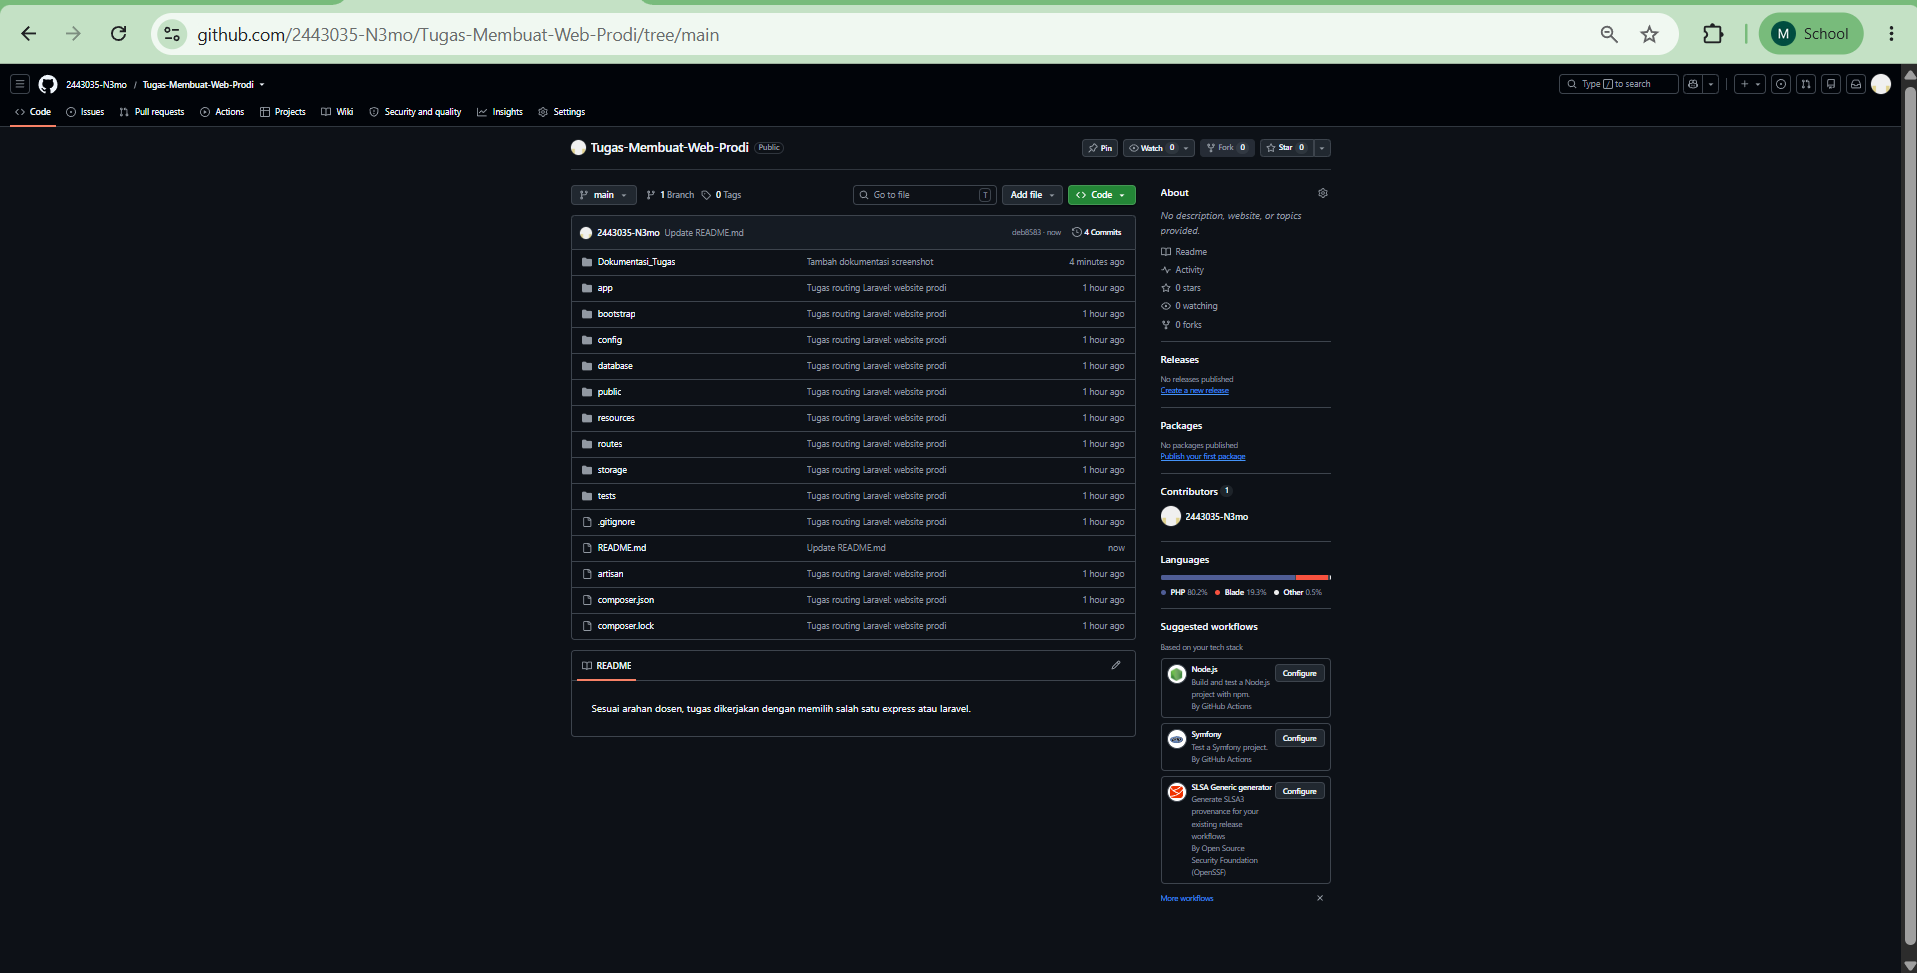
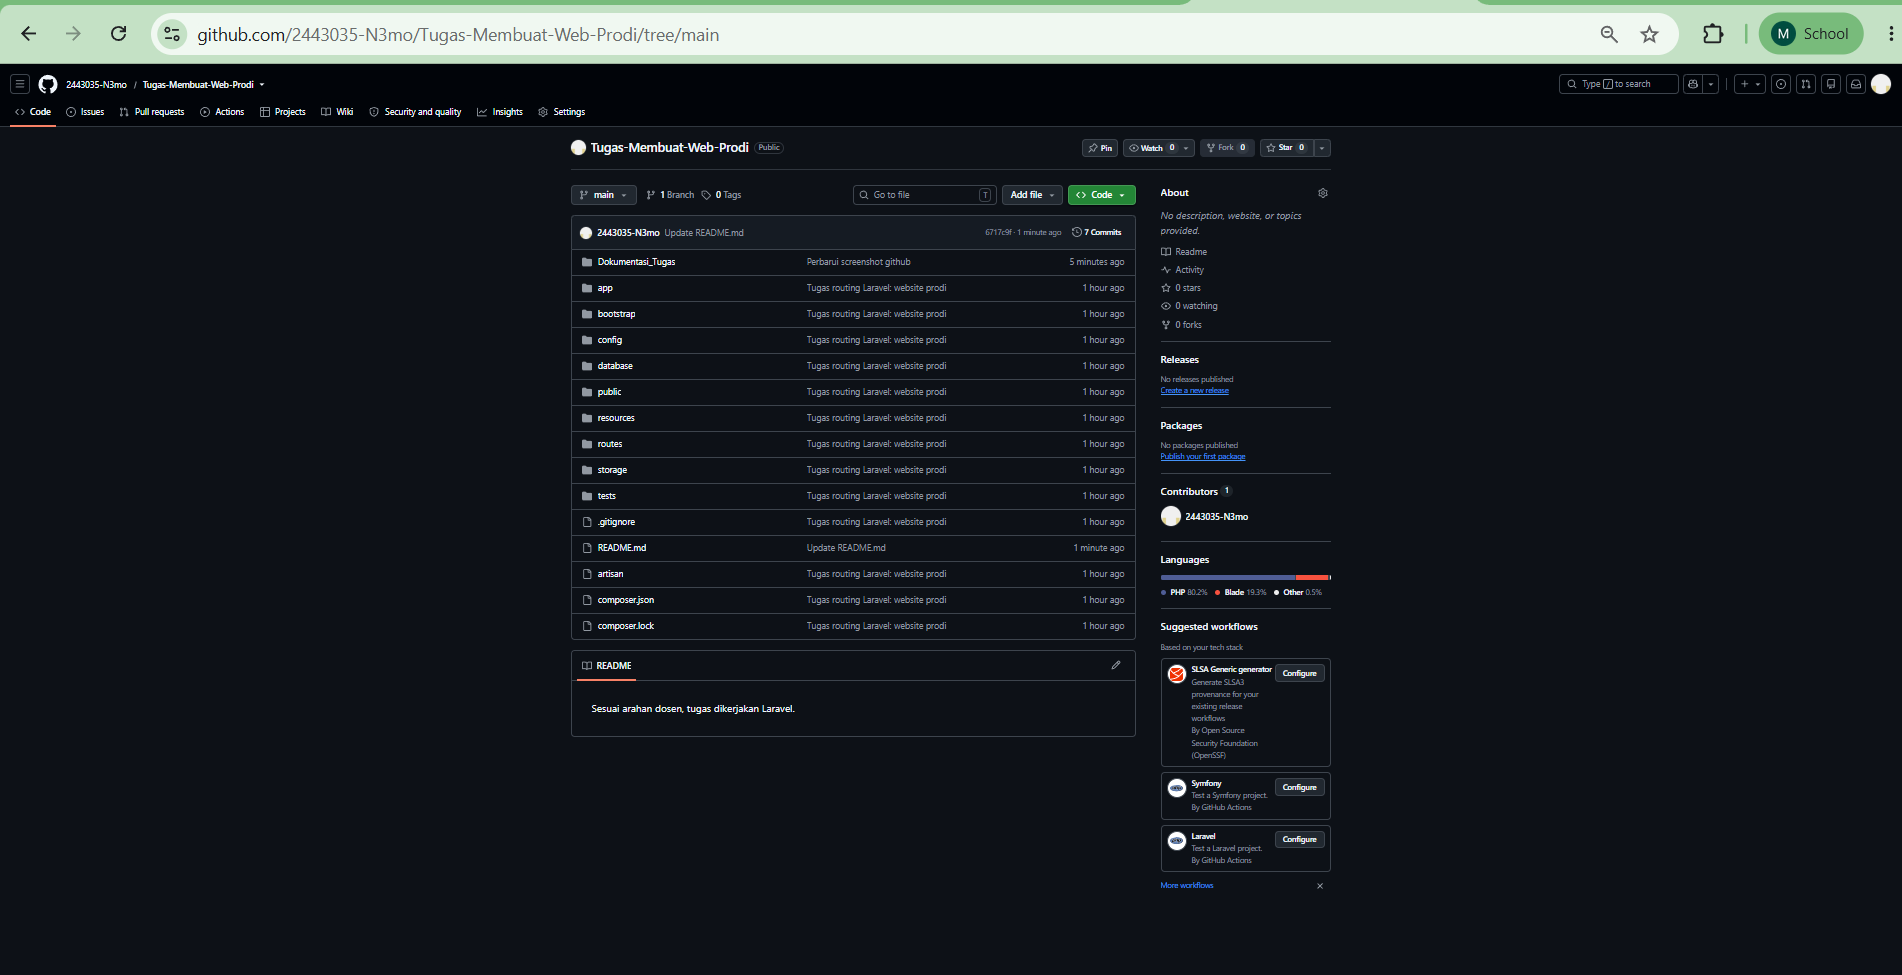
Perbarui README dan screenshot GitHub

diff --git a/README.md b/README.md
@@ -1,1 +1,1 @@
-   Sesuai arahan dosen, tugas dikerjakan dengan memilih salah satu express atau laravel.
+   Sesuai arahan dosen, tugas dikerjakan dengan laravel.
